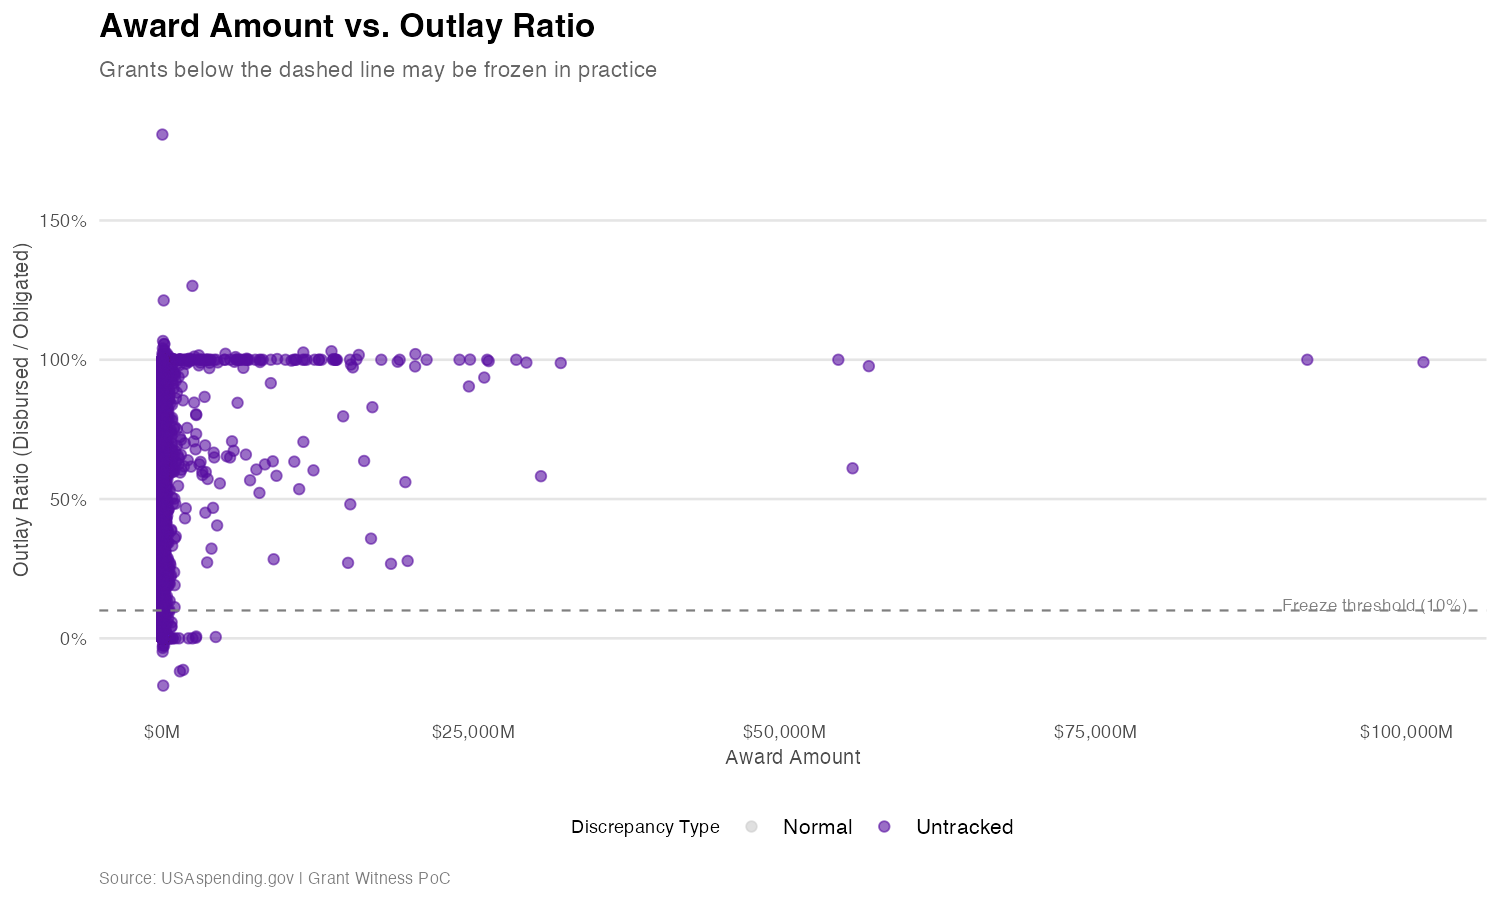
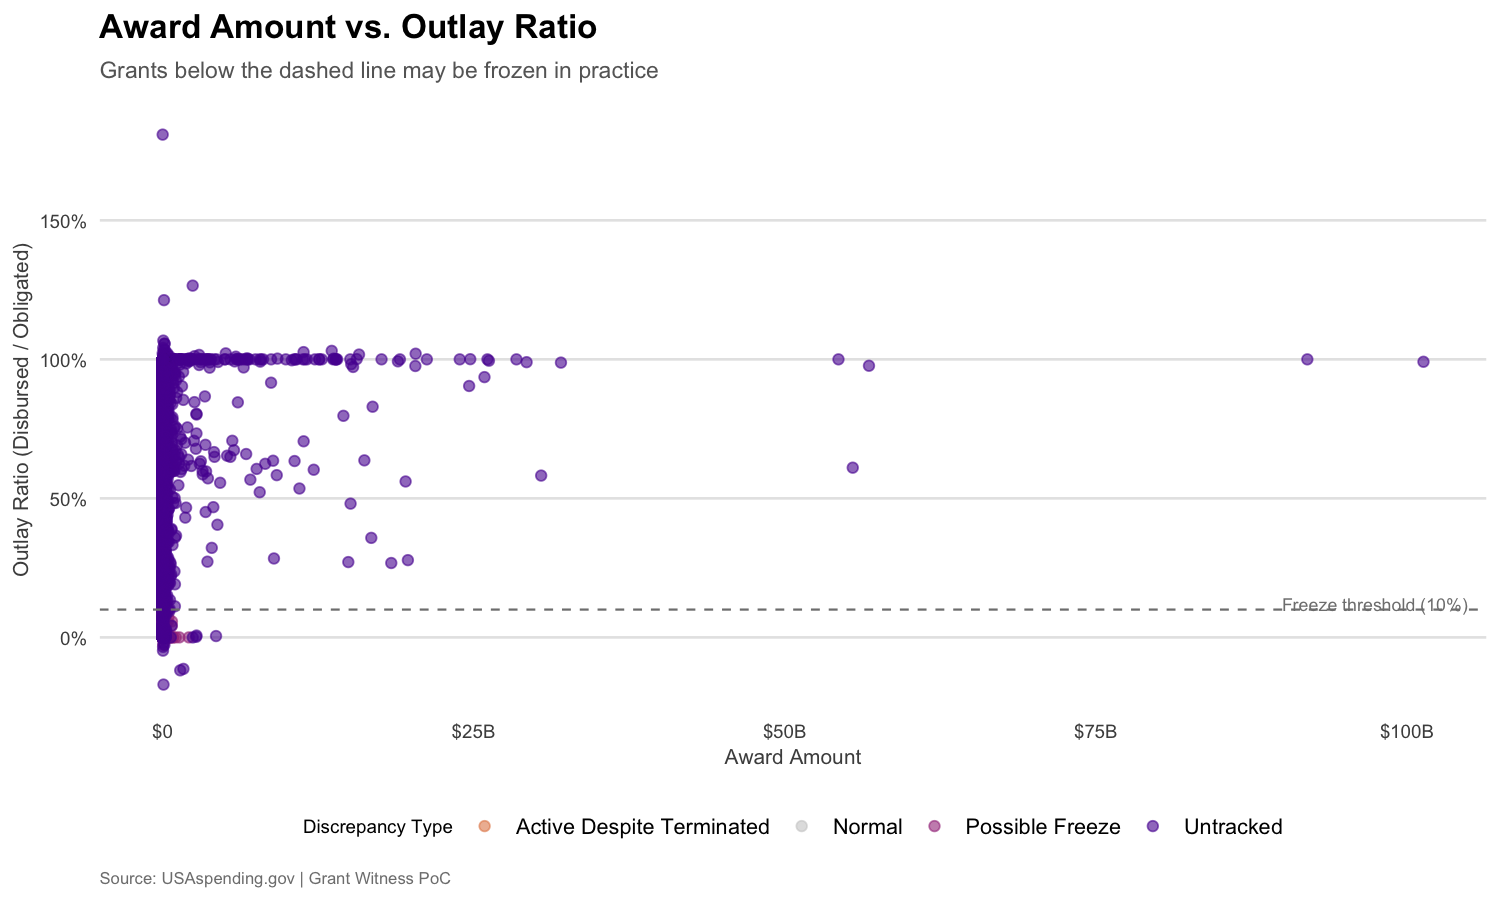
fix: use correct USAspending date field names, fixing 100% missing dates
The USAspending API returns "Start Date"/"End Date" fields, not "Period
of Performance Start Date"/"Period of Performance Current End Date"
(which silently return null). This was the root cause of all temporal
data being missing, which blocked fuzzy joins and discrepancy detection.

Results after fix:
- Dates populated: 14,997/15,000 (99.98%, up from 0%)
- Fuzzy matches: 13,351 (up from 0 — date filter was blocking all)
- Active Despite Terminated: 2,108 NSF grants detected
- Possible Freeze: 14,373 grants flagged

Also: strip "DESCRIPTION:" prefix from descriptions, fix scatter plot
axis labels ($25B not $25,000M), add regression test for field names.

diff --git a/README.md b/README.md
@@ -44,6 +44,19 @@ The pipeline discovers grants where **government reporting contradicts observed 
 ### Geographic Distribution
 ![State Map](output/state_map.png)
 
+## Latest Results
+
+| Metric | Value |
+|---|---|
+| NIH terminated grants scraped | 10,000 |
+| NSF terminated awards parsed | 1,667 |
+| USAspending awards fetched | 15,000 (HHS + NSF + EPA) |
+| Exact matches (grant number) | 489 |
+| Fuzzy matches (org name + date) | 13,351 |
+| Active Despite Terminated | 2,108 grants |
+| Possible Freeze (< 10% outlay) | 14,373 grants |
+| Untracked (no forensic notice) | 11,310 grants |
+
 ## Running the Pipeline
 
 ```r
@@ -95,7 +108,7 @@ R/
   visualize.R           # ggplot2 charts (GW visual style)
   utils.R               # Shared HTTP, date parsing, logging
 tests/
-  testthat/test-parsers.R   # 128 tests covering all modules
+  testthat/test-parsers.R   # 151 tests covering all modules
 _targets.R                  # Pipeline orchestration
 ```
 
